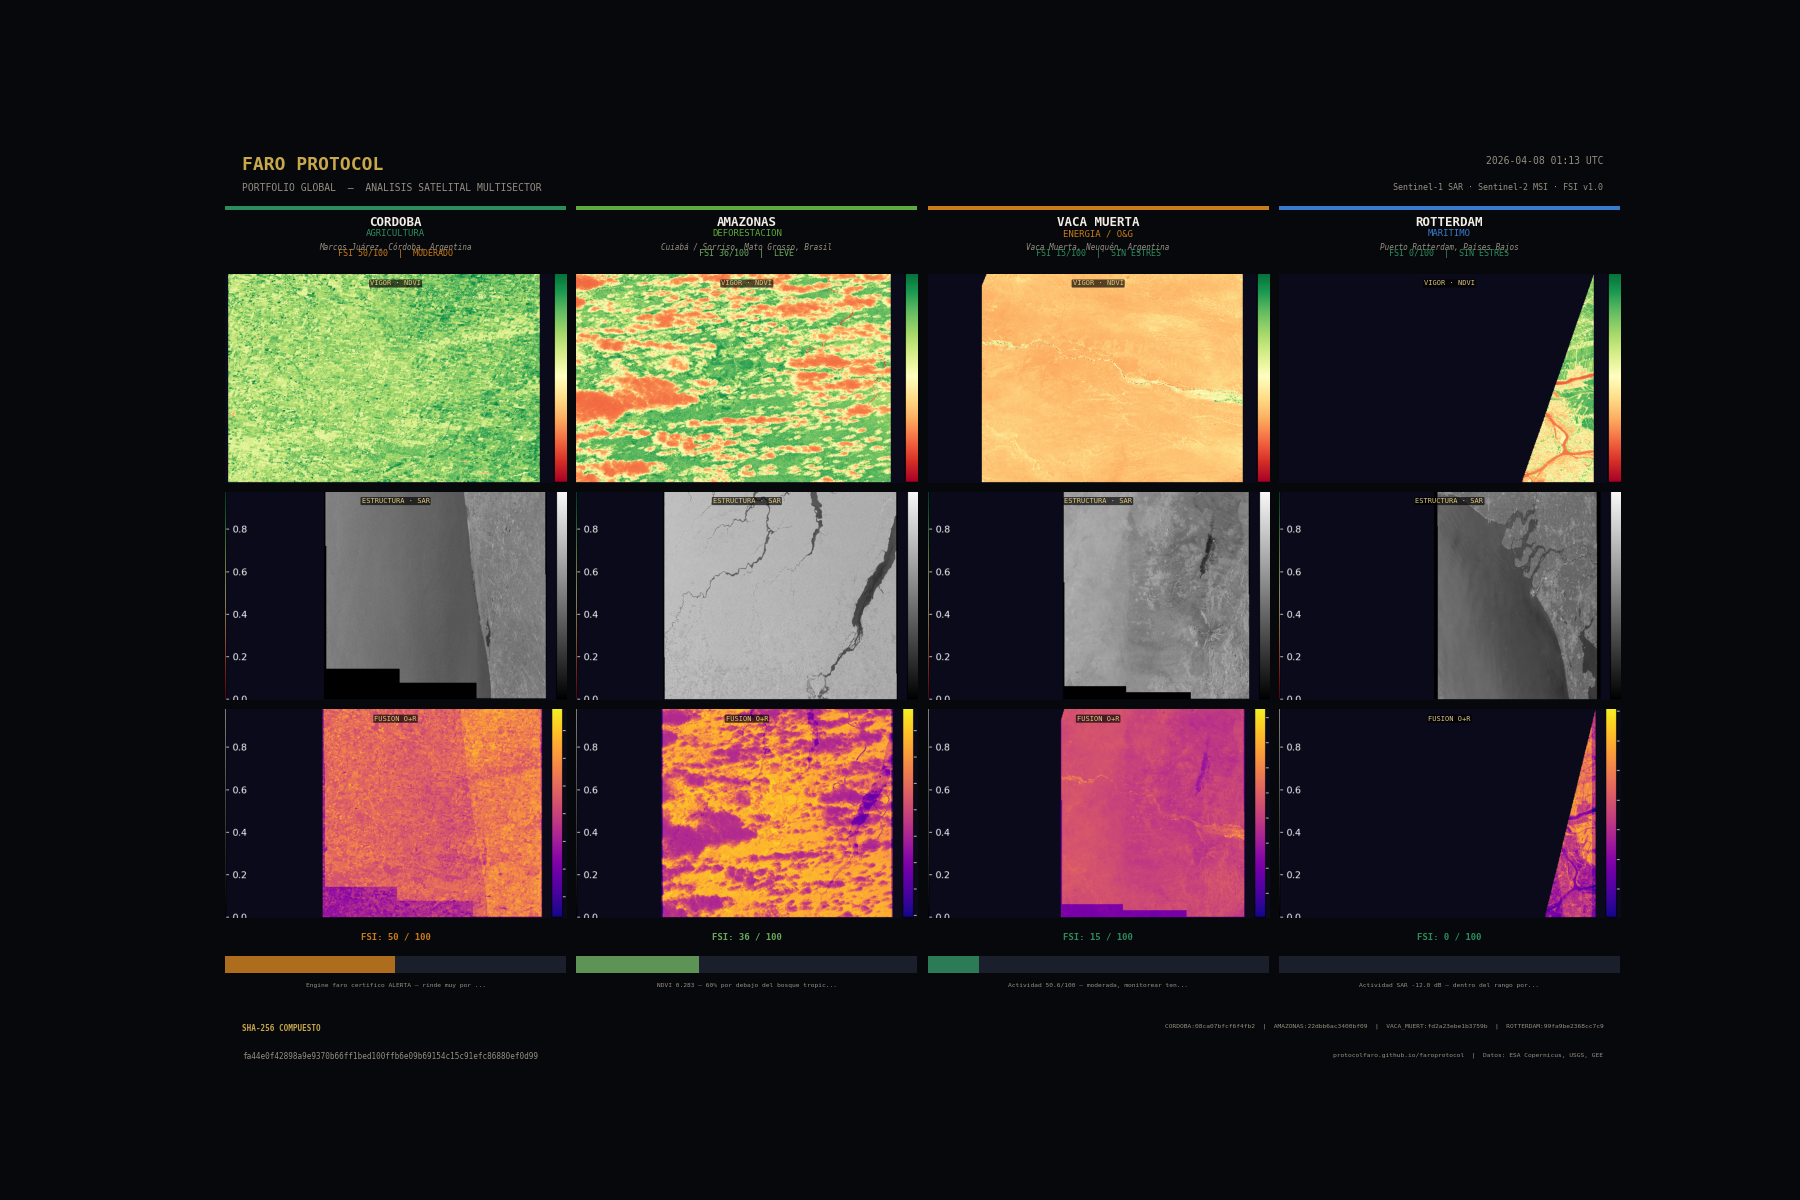
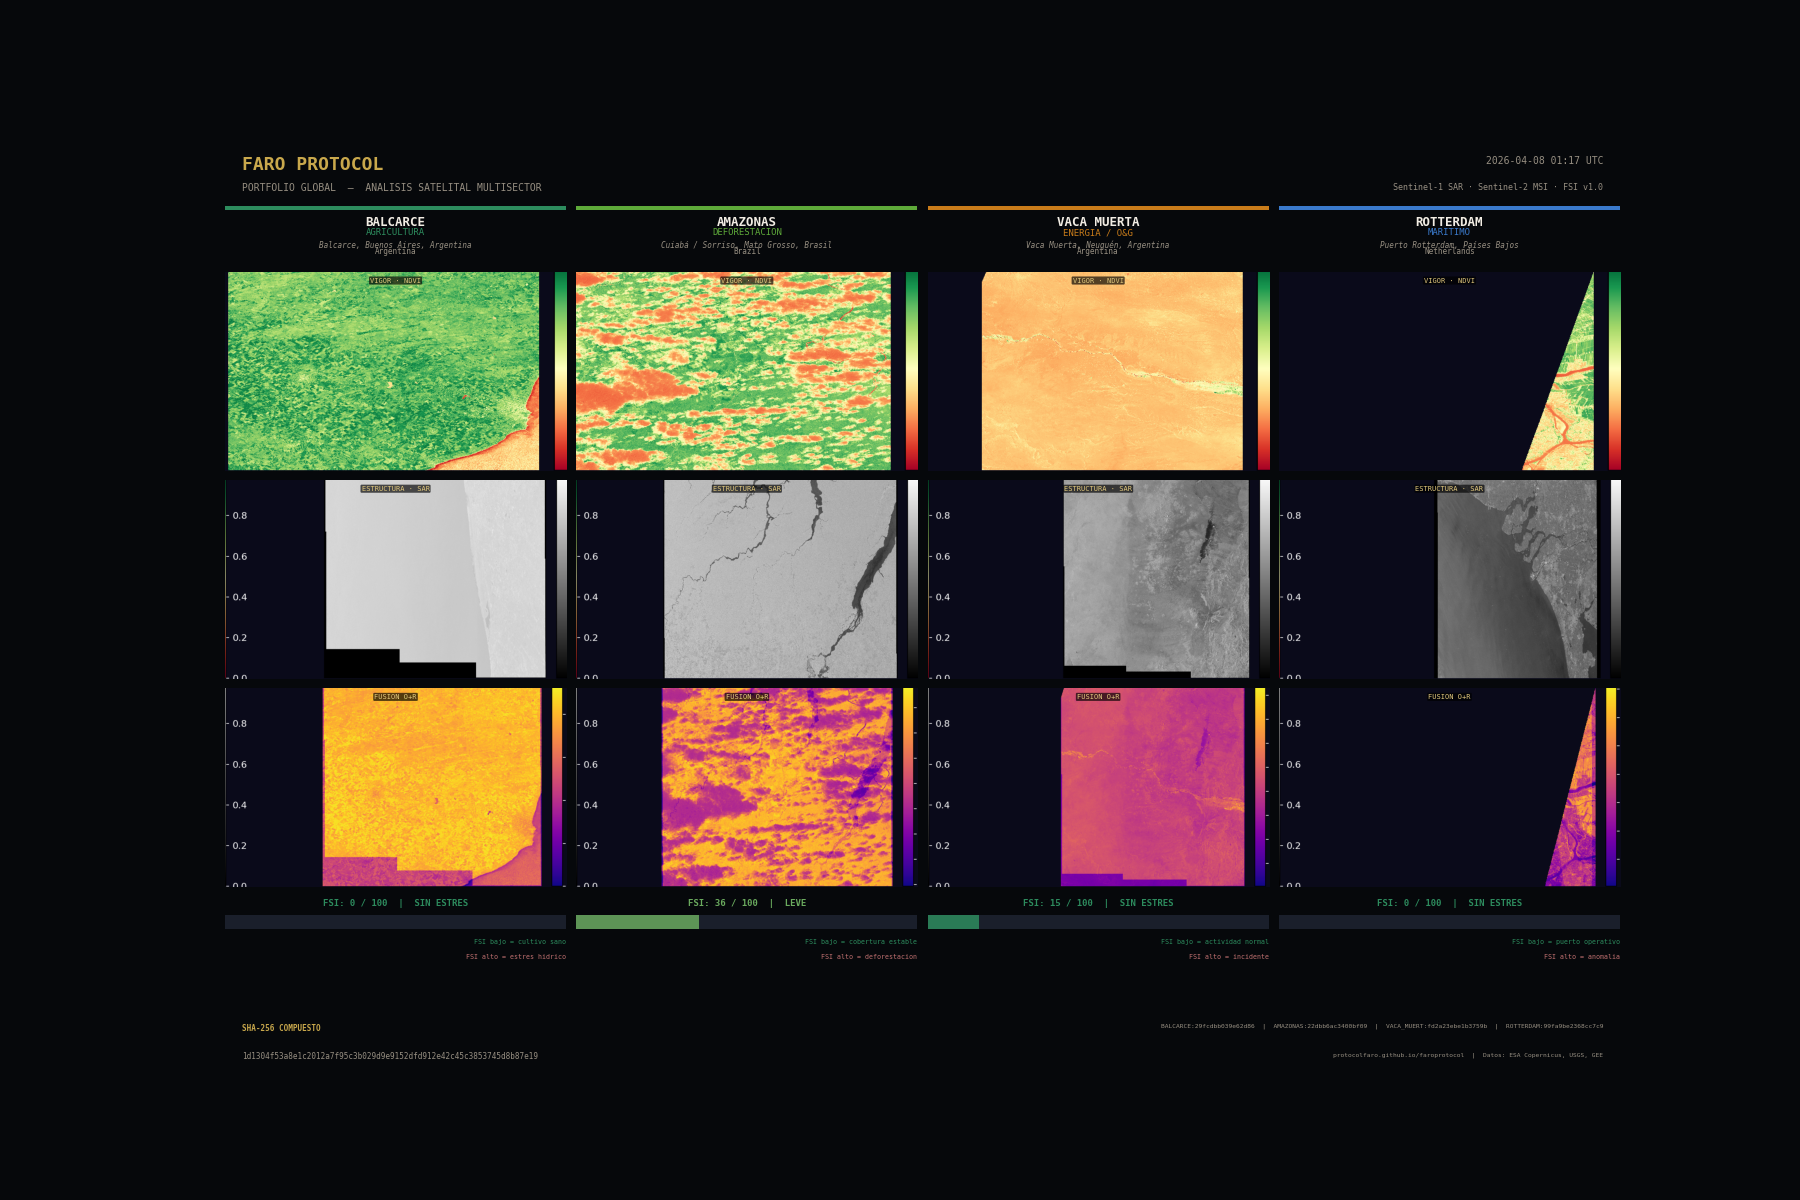
feat: portfolio — leyenda FSI por sector + estado ALERTA en header
Agrega FSI_LEGEND dict con descripcion publica de escala por sector
(agro/maritimo/energia/deforestacion). Cada columna muestra debajo
de la barra FSI: linea verde (bajo=sano) y linea roja (alto=problema).
Header muestra pais + marca [ALERTA] cuando corresponde.

diff --git a/faro_portfolio_global.py b/faro_portfolio_global.py
@@ -89,6 +89,18 @@ SECTOR_LABELS = {
     'mining_iron':   'MINERIA',
 }
 
+# Leyenda pública por sector — explica la escala FSI al lector no técnico
+FSI_LEGEND = {
+    'agro':          'FSI bajo = cultivo sano  ·  FSI alto = estres hidrico',
+    'deforestacion': 'FSI bajo = cobertura estable  ·  FSI alto = deforestacion',
+    'maritimo':      'FSI bajo = puerto operativo  ·  FSI alto = anomalia',
+    'shipping':      'FSI bajo = puerto operativo  ·  FSI alto = anomalia',
+    'energia':       'FSI bajo = actividad normal  ·  FSI alto = incidente',
+    'oil_gas':       'FSI bajo = actividad normal  ·  FSI alto = incidente',
+    'mineria':       'FSI bajo = produccion normal  ·  FSI alto = paralisis',
+    'mining_iron':   'FSI bajo = produccion normal  ·  FSI alto = paralisis',
+}
+
 SECTOR_COLOR = {
     'agro':          GREEN,
     'deforestacion': '#5eaa3a',
@@ -182,7 +194,7 @@ def _render_area_column(fig, outer_gs_cell, area: str, show_panel_labels: bool =
     inner = gridspec.GridSpecFromSubplotSpec(
         5, 1,
         subplot_spec=outer_gs_cell,
-        height_ratios=[1.0, 3.5, 3.5, 3.5, 1.2],
+        height_ratios=[1.0, 3.5, 3.5, 3.5, 1.8],
         hspace=0.06,
     )
 
@@ -209,10 +221,13 @@ def _render_area_column(fig, outer_gs_cell, area: str, show_panel_labels: bool =
               color=WHITE60, fontfamily='monospace', transform=ax_h.transAxes,
               style='italic')
 
-    # Score FSI pequeño en el header
-    ax_h.text(0.5, 0.12, f'FSI {fsi_score:.0f}/100  |  {fsi_nivel.upper()}',
-              ha='center', va='bottom', fontsize=6,
-              color=nivel_col, fontfamily='monospace', transform=ax_h.transAxes)
+    # Estado en el header (país + score compacto)
+    estado_txt = metrics.get('estado', '')
+    estado_mark = ' [ALERTA]' if estado_txt == 'ALERTA' else ''
+    ax_h.text(0.5, 0.12, f'{country}{estado_mark}',
+              ha='center', va='bottom', fontsize=5.5,
+              color=RED if estado_txt == 'ALERTA' else WHITE60,
+              fontfamily='monospace', transform=ax_h.transAxes)
 
     # ── 3 paneles satelitales ─────────────────────────────────────────────────
     panel_titles = ['VIGOR · NDVI', 'ESTRUCTURA · SAR', 'FUSION O+R']
@@ -251,28 +266,43 @@ def _render_area_column(fig, outer_gs_cell, area: str, show_panel_labels: bool =
     ax_f.set_ylim(0, 1)
     ax_f.axis('off')
 
-    # Fondo gris de la barra
-    ax_f.add_patch(Rectangle((0, 0.35), 100, 0.25,
-                              facecolor='#1a1f2b', zorder=1))
-    # Relleno proporcional al score
-    fill_col = nivel_col
-    if fsi_score > 0:
-        ax_f.add_patch(Rectangle((0, 0.35), fsi_score, 0.25,
-                                  facecolor=fill_col, alpha=0.85, zorder=2))
-
-    ax_f.text(50, 0.92, f'FSI: {fsi_score:.0f} / 100',
+    # Título con score
+    ax_f.text(50, 0.97, f'FSI: {fsi_score:.0f} / 100  |  {fsi_nivel.upper()}',
               ha='center', va='top', fontsize=6.5,
               color=nivel_col, fontfamily='monospace', fontweight='bold')
 
-    # Primera linea de detalle
+    # Fondo gris de la barra
+    ax_f.add_patch(Rectangle((0, 0.68), 100, 0.14,
+                              facecolor='#1a1f2b', zorder=1))
+    # Relleno proporcional al score
+    if fsi_score > 0:
+        ax_f.add_patch(Rectangle((0, 0.68), fsi_score, 0.14,
+                                  facecolor=nivel_col, alpha=0.85, zorder=2))
+
+    # Leyenda pública del sector (dos líneas: bajo / alto)
+    legend_raw = FSI_LEGEND.get(sector, '')
+    if legend_raw:
+        parts = legend_raw.split('  ·  ')
+        line_bajo = parts[0].strip() if len(parts) > 0 else ''
+        line_alto = parts[1].strip() if len(parts) > 1 else ''
+        ax_f.text(1, 0.58, line_bajo,
+                  ha='right', va='top', fontsize=4.8,
+                  color=GREEN, fontfamily='monospace',
+                  transform=ax_f.transAxes)
+        ax_f.text(1, 0.43, line_alto,
+                  ha='right', va='top', fontsize=4.8,
+                  color='#c07070', fontfamily='monospace',
+                  transform=ax_f.transAxes)
+
+    # Primera línea de detalle satelital
     if fsi_detalle:
         txt = fsi_detalle[0]
-        if len(txt) > 48:
-            txt = txt[:45] + '...'
-        ax_f.text(50, 0.15, txt,
-                  ha='center', va='bottom', fontsize=4.5,
+        if len(txt) > 52:
+            txt = txt[:49] + '...'
+        ax_f.text(50, 0.16, txt,
+                  ha='center', va='bottom', fontsize=4.3,
                   color=WHITE60, fontfamily='monospace',
-                  wrap=True)
+                  transform=ax_f.transAxes)
 
 
 def _composite_sha(areas: list[str]) -> str:
